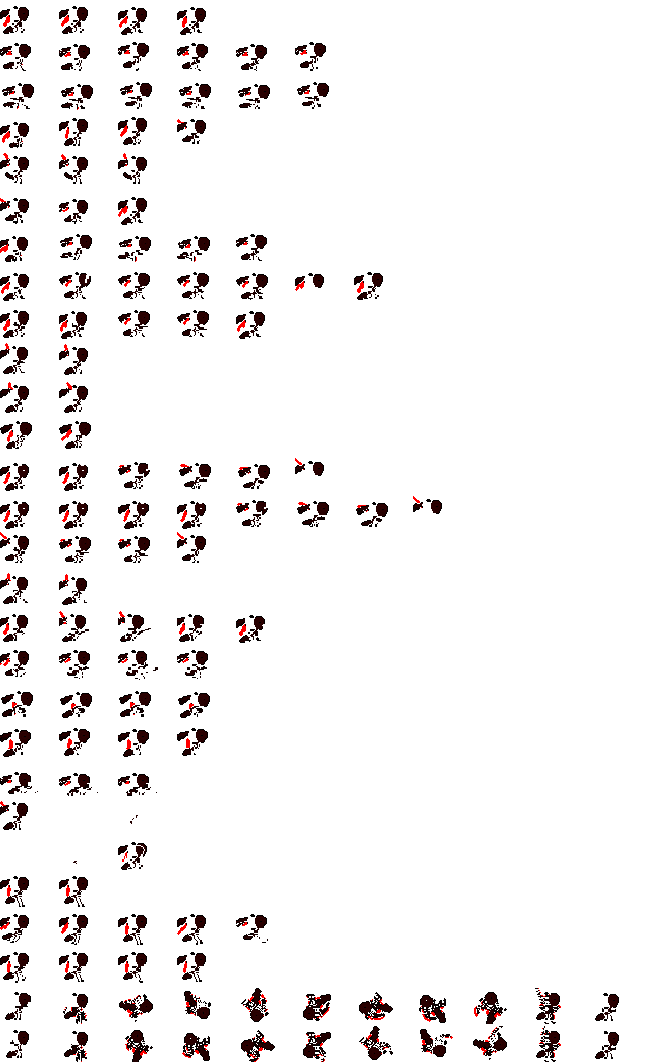
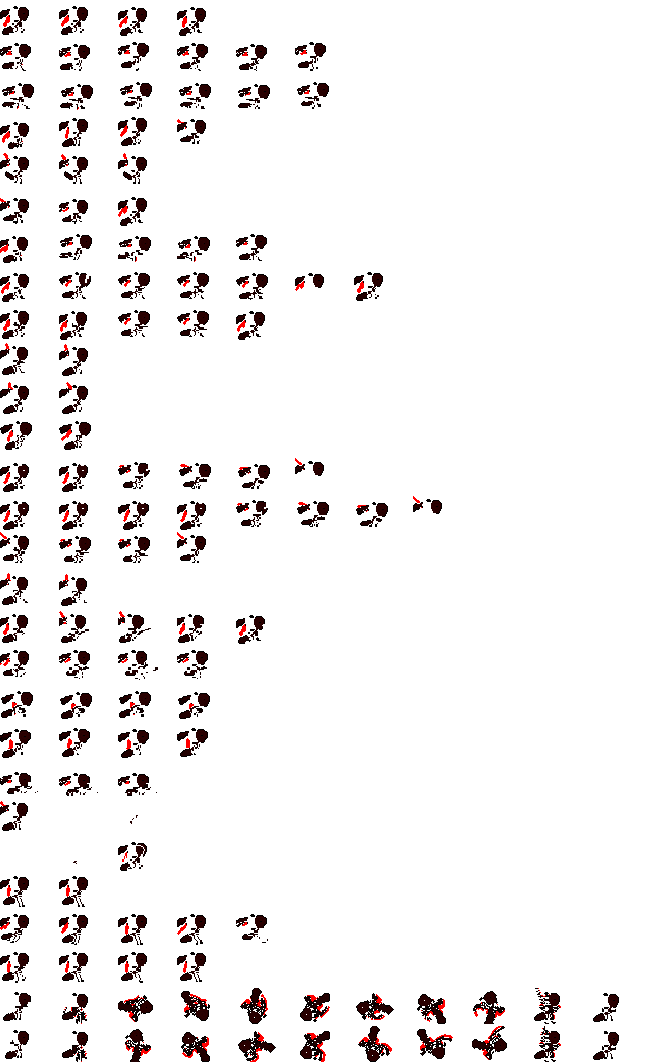
Apprenti tengu : le pan du manteau retrouve sa forme, son bout raccourci
Ce n'est pas une queue mais le long pan du manteau qui fait cape (Raph) : la
forme validée est rétablie dans ses trois gabarits, seul son bout est
raccourci (un pixel de long, et au repos la dernière rangée qui touchait le
sol). Commentaires, carte mentale et SKINS.md parlent désormais du pan du
manteau.

Claude-Session: https://claude.ai/code/session_01A2iwx41GJ1yT1ZEu9VhwRg

diff --git a/docs/carte-mentale/index.html b/docs/carte-mentale/index.html
@@ -270,7 +270,7 @@ const BRANCHES = [
     keys: ['2 dégâts, recul 170 px/s', '0,35 s avant d\'en relancer un', 'Portée équivalente au sabre'],
     files: ['src/game/fall.js', 'tools/kage_forge/rig.py'], see: ['ennemi-chute'] },
   { id: 'kage-skins', t: 'Skins de KAGE', s: 'encours', d: 'Encre, le paysan, l’apprenti tengu, le Samouraï déchu, le pêcheur, Lumière d’or ; cinq autres à reprendre un par un',
-    txt: "Un skin = une palette par slots (même animation, même boîte de collision, rien ne change dans le jeu) et des accessoires, posés pose par pose : sur la tête (grand sugegasa tressé, dessiné à la main), dans le dos (le mino de feuilles et de paille du voyageur, qui suit le bord du dos, s'évase jusqu'aux chevilles et s'effiloche ; le tonnelet doré, le panier, le bambou et le manche d'outil du paysan), sur le corps (cordon doré en pointillés et boucle de ceinture, pan de tunique, pantalon rapiécé, kimono semé de feuilles). Les pans du bandeau sont rangés (le voyageur garde un ruban qui flotte). Chaque skin a sa planche d'animation complète (la forge exporte ses accessoires sur un calque d'index, kage_acc_<skin>_index.png, fondu par le jeu sur la planche recolorée). Planches de Raph (14 novembre 2026) : après un premier essai trop rapide des dix skins entourés, on reprend un par un ; faits : le voyageur (100 ryō, retiré du jeu le 16 novembre 2026 à la demande de Raph : sa planche reste dans docs/kage/skins/) et le paysan des rizières (100 ryō) ; le vagabond (50 ryō) est retiré du jeu (14 novembre 2026) ; Lumière d'or (légendaire, 600 ryō, 15 novembre 2026) : ninja bleu nuit, bandeau d'or et ses pans en flammes, étoffe dorée sur l'épaule, cordon et pans d'or à la ceinture, grande auréole à croix de lumière (sans contour) ; sabre à lame d'or et poignée de cuir, arc du coup d'or, shurikens dorés (projectileColors) ; en jeu (src/game/aura.js), un orbe doré qui flotte devant lui, deux volutes de lumière autour des jambes, des étincelles ; une légère traînée d'or derrière le coup d'épée (les images précédentes de la lame) des silhouettes dorées derrière le dash , trois reflets et un peu de poussière d'or étincelante derrière chaque shuriken (champ trail, Shurikens.dust, maskSheet dans sprites.js) ; le Samouraï déchu (rare, 450 ryō, 16 novembre 2026) : kabuto laqué à la bombe haute, cornes d'or en croissant et cimier rouge, bande rouge et ses deux pans au vent ; épaulière laquée bordée d'or, au haut carré, resserrée sur l'épaule (elle ne dépasse plus que d'un pixel : Raph la confondait avec la cape) ; cape rouge en lambeaux, dessinée à la main pour chaque vent (lu sur les pans du bandeau de la pose) : au repos plaquée dans le dos des épaules aux genoux, trois pixels au plus derrière l'épaule, angles nets, une entaille sur le côté, le bas en pointes ; en course elle vole haut derrière les épaules ; en chute elle se soulève ; col d'or en V, ceinture à plaques d'or ; tassette avant bordée d'or en U, tassette arrière clouée d'or ; hakama sombre jusqu'à la jambe levée d'un coup de pied, chaussures à bande rouille ; le bras arrière rapproché du corps d'un pixel (demandes de Raph) ; sa barre de vie passe au-dessus des cornes (champ barLift). Le même jour : un calque d'accessoires sait effacer (marque ERASE, index 255 : les pans rangés, le bras déplacé) ; jusque-là, ce qu'un accessoire retirait restait visible en jeu (les pans du voyageur, du paysan et de Lumière d'or) ; et en arène, le ninja porte enfin le skin de l'aventure en cours. Le pêcheur (épique, 500 ryō, 16 novembre 2026) : sugegasa à bande de tressage gris-bleu, pan bleu sous le bord, tenue bleu nuit semée d'éclats dorés, corde tressée claire en bandoulière, une canne fine rangée dans le dos, qui dépasse au-dessus du chapeau, un petit fil pendu à sa pointe (elle quitte le dos quand il la prend pour frapper), un filet rond sur le dos tenu à la hanche, qui lévite avec la vitesse (un peu en course ; en sprint et en dash il monte, part en arrière, penche et laisse trois traits de vitesse ; plus petit pendant les saltos), une canne à pêche en bambou à la place du sabre (nœuds, poignée de liège, scion, ligne et flotteur rouge et blanc ; l'arc du coup devient une ligne d'eau), des micro-poissons en guise de shurikens (agrandis ×1,4 le 17 novembre 2026 ; planche kage_fish, cases de 16 px, tournés dans le sens du vol, plantés la tête la première, des micro-gouttelettes d'eau derrière eux ; un petit poisson dans la main au lancer), toiles de paille aux chevilles, marque dorée sur le masque. Les pans du bandeau qui remontent derrière la tête (chute, glissade murale) sont désormais rangés aussi (ribbon : paysan, Lumière d'or). L'apprenti tengu (n° 13, peu commun, 350 ryō, 17 novembre 2026) : masque blanc lisse à œil unique, une spirale rouge d'un pixel qui part de l'œil, s'enroule vers l'extérieur et finit dans le bord bas du masque (choisi par Raph le 17 novembre 2026 parmi six idées, docs/kage/skins/tengu_masques.png, après l'abandon du masque de renard), mèche nouée, rubans blanc et rouge effilés au vent, boucle dorée à la ceinture, veste blanche à la poitrine rouge, cordelette en damier, pantalon blanc à bande rouge, tibias sombres, queue de renard rouge à pointe blanche, raccourcie pour ne plus traîner, qui suit le vent. Les cinq autres (ninja blanc, écarlate, Ombre pourpre, Souffle de l'hiver, Renard blanc) attendent en brouillon (tools/kage_forge/skins_brouillon/), hors du jeu. Nouveaux slots : gear (b B i) et gear2 (j J).",
+    txt: "Un skin = une palette par slots (même animation, même boîte de collision, rien ne change dans le jeu) et des accessoires, posés pose par pose : sur la tête (grand sugegasa tressé, dessiné à la main), dans le dos (le mino de feuilles et de paille du voyageur, qui suit le bord du dos, s'évase jusqu'aux chevilles et s'effiloche ; le tonnelet doré, le panier, le bambou et le manche d'outil du paysan), sur le corps (cordon doré en pointillés et boucle de ceinture, pan de tunique, pantalon rapiécé, kimono semé de feuilles). Les pans du bandeau sont rangés (le voyageur garde un ruban qui flotte). Chaque skin a sa planche d'animation complète (la forge exporte ses accessoires sur un calque d'index, kage_acc_<skin>_index.png, fondu par le jeu sur la planche recolorée). Planches de Raph (14 novembre 2026) : après un premier essai trop rapide des dix skins entourés, on reprend un par un ; faits : le voyageur (100 ryō, retiré du jeu le 16 novembre 2026 à la demande de Raph : sa planche reste dans docs/kage/skins/) et le paysan des rizières (100 ryō) ; le vagabond (50 ryō) est retiré du jeu (14 novembre 2026) ; Lumière d'or (légendaire, 600 ryō, 15 novembre 2026) : ninja bleu nuit, bandeau d'or et ses pans en flammes, étoffe dorée sur l'épaule, cordon et pans d'or à la ceinture, grande auréole à croix de lumière (sans contour) ; sabre à lame d'or et poignée de cuir, arc du coup d'or, shurikens dorés (projectileColors) ; en jeu (src/game/aura.js), un orbe doré qui flotte devant lui, deux volutes de lumière autour des jambes, des étincelles ; une légère traînée d'or derrière le coup d'épée (les images précédentes de la lame) des silhouettes dorées derrière le dash , trois reflets et un peu de poussière d'or étincelante derrière chaque shuriken (champ trail, Shurikens.dust, maskSheet dans sprites.js) ; le Samouraï déchu (rare, 450 ryō, 16 novembre 2026) : kabuto laqué à la bombe haute, cornes d'or en croissant et cimier rouge, bande rouge et ses deux pans au vent ; épaulière laquée bordée d'or, au haut carré, resserrée sur l'épaule (elle ne dépasse plus que d'un pixel : Raph la confondait avec la cape) ; cape rouge en lambeaux, dessinée à la main pour chaque vent (lu sur les pans du bandeau de la pose) : au repos plaquée dans le dos des épaules aux genoux, trois pixels au plus derrière l'épaule, angles nets, une entaille sur le côté, le bas en pointes ; en course elle vole haut derrière les épaules ; en chute elle se soulève ; col d'or en V, ceinture à plaques d'or ; tassette avant bordée d'or en U, tassette arrière clouée d'or ; hakama sombre jusqu'à la jambe levée d'un coup de pied, chaussures à bande rouille ; le bras arrière rapproché du corps d'un pixel (demandes de Raph) ; sa barre de vie passe au-dessus des cornes (champ barLift). Le même jour : un calque d'accessoires sait effacer (marque ERASE, index 255 : les pans rangés, le bras déplacé) ; jusque-là, ce qu'un accessoire retirait restait visible en jeu (les pans du voyageur, du paysan et de Lumière d'or) ; et en arène, le ninja porte enfin le skin de l'aventure en cours. Le pêcheur (épique, 500 ryō, 16 novembre 2026) : sugegasa à bande de tressage gris-bleu, pan bleu sous le bord, tenue bleu nuit semée d'éclats dorés, corde tressée claire en bandoulière, une canne fine rangée dans le dos, qui dépasse au-dessus du chapeau, un petit fil pendu à sa pointe (elle quitte le dos quand il la prend pour frapper), un filet rond sur le dos tenu à la hanche, qui lévite avec la vitesse (un peu en course ; en sprint et en dash il monte, part en arrière, penche et laisse trois traits de vitesse ; plus petit pendant les saltos), une canne à pêche en bambou à la place du sabre (nœuds, poignée de liège, scion, ligne et flotteur rouge et blanc ; l'arc du coup devient une ligne d'eau), des micro-poissons en guise de shurikens (agrandis ×1,4 le 17 novembre 2026 ; planche kage_fish, cases de 16 px, tournés dans le sens du vol, plantés la tête la première, des micro-gouttelettes d'eau derrière eux ; un petit poisson dans la main au lancer), toiles de paille aux chevilles, marque dorée sur le masque. Les pans du bandeau qui remontent derrière la tête (chute, glissade murale) sont désormais rangés aussi (ribbon : paysan, Lumière d'or). L'apprenti tengu (n° 13, peu commun, 350 ryō, 17 novembre 2026) : masque blanc lisse à œil unique, une spirale rouge d'un pixel qui part de l'œil, s'enroule vers l'extérieur et finit dans le bord bas du masque (choisi par Raph le 17 novembre 2026 parmi six idées, docs/kage/skins/tengu_masques.png, après l'abandon du masque de renard), mèche nouée, rubans blanc et rouge effilés au vent, boucle dorée à la ceinture, veste blanche à la poitrine rouge, cordelette en damier, pantalon blanc à bande rouge, tibias sombres, long pan du manteau rouge bordé de blanc, qui fait cape et suit le vent, son bout raccourci d'un pixel pour ne plus traîner. Les cinq autres (ninja blanc, écarlate, Ombre pourpre, Souffle de l'hiver, Renard blanc) attendent en brouillon (tools/kage_forge/skins_brouillon/), hors du jeu. Nouveaux slots : gear (b B i) et gear2 (j J).",
     keys: ['6 skins en jeu', '5 en brouillon', 'gear b B i · gear2 j J', 'effacer : index 255'],
     files: ['assets/characters/kage/skins/', 'src/engine/sprites.js', 'tools/kage_forge/accessories.py', 'tools/kage_forge/palette.py', 'tools/kage_forge/skin_design.py', 'tools/kage_forge/skin_sheets.py', 'tools/kage_forge/skins_brouillon/', 'src/game/shop.js', 'src/game/aura.js', 'docs/SKINS.md'],
     links: [['Le paysan, face à son modèle', 'docs/kage/skins/paysan_planche.png'], ['Lumière d’or, face à son modèle', 'docs/kage/skins/or_planche.png'], ['Le Samouraï déchu, face à son modèle', 'docs/kage/skins/samourai_planche.png'], ['Le pêcheur, face à son modèle', 'docs/kage/skins/pecheur_planche.png'], ['L’apprenti tengu, face à son modèle', 'docs/kage/skins/tengu_planche.png'], ['L’apprenti tengu : les six idées de masques', 'docs/kage/skins/tengu_masques.png'], ['Le pêcheur, toutes les animations', 'docs/kage/skins/planche_pecheur.png'], ['Le Samouraï déchu, toutes les animations', 'docs/kage/skins/planche_samourai.png']], see: ['sys-boutique', 'hab-marchand'] },

diff --git a/tools/kage_forge/accessories.py b/tools/kage_forge/accessories.py
@@ -1333,10 +1333,10 @@ def mask_mark(g):
 # l'œil, s'enroule vers l'extérieur et finit dans le bord bas du masque (choix de Raph, après l'abandon du masque de renard : on n'y devinait pas
 # assez le renard à notre échelle de pixels) ; capuche sombre derrière et sa petite mèche nouée, deux rubans
 # (blanc bordé de rouge, et rouge) qui flottent derrière la tête ; veste blanche au devant rouge, cordelette en
-# damier ; pantalon blanc à bande rouge ; une queue de renard rouge à pointe blanche, qui suit le vent de la
-# pose (comme la cape du samouraï).
+# damier ; pantalon blanc à bande rouge ; le long pan du manteau, rouge bordé de blanc, qui fait cape et suit
+# le vent de la pose (comme la cape du samouraï).
 # Lettres : B b i blanc du masque · J la spirale rouge · O l'œil · f F G rouges (rubans, devant, pantalon)
-# r p P Q queue (sombre, ombre, rouge, blanc)
+# r p P Q pan du manteau (sombre, ombre, rouge, blanc)
 # ---------------------------------------------------------------------------
 FOX_MASK = """
 ..bBBBi..
@@ -1461,30 +1461,33 @@ def haori(g):
     return g, True
 
 
-# la queue de renard, dessinée à la main pour chaque vent (calée à droite contre le bas du dos, première
-# rangée relative à la ceinture) : elle pend et balaie le sol au repos, file derrière lui en course, se soulève
-# en chute
+# le long pan du manteau, rouge bordé de blanc, qui fait cape derrière lui (on l'appelait d'abord « queue
+# de renard ») : dessiné à la main pour chaque vent (calé à droite contre le bas du dos, première rangée
+# relative à la ceinture) ; il pend au repos, file derrière lui en course, se soulève en chute
 FOX_TAIL = {
-    # (raccourcie le 17 novembre 2026, demande de Raph : elle traînait trop)
+    # (la forme validée, son bout raccourci d'un pixel et sa dernière rangée retirée le 17 novembre 2026 :
+    # il traînait un peu trop, Raph)
     "calm": (0, [
-        "....pPP.",
-        "..pPPPPP",
-        ".pPpPPPQ",
-        "QpPPPQQ.",
-        "QiQQ....",
+        ".....pPP.",
+        "...pPPPPP",
+        ".pPPpPPPQ",
+        "pPPpPPPQQ",
+        "QPPPPQQQ.",
+        "QQiQQ....",
     ]),
     "back": (-1, [
-        "....pPPP",
-        "..pPpPPP",
-        "QpPPPPPQ",
-        "QiQQQQ..",
+        ".....pPPP",
+        ".ppPPpPPP",
+        "QPPPPPPPQ",
+        "QiQQQQQ..",
     ]),
-    "up": (-3, [
-        "QQ......",
-        "QiPp....",
-        ".QPPPp..",
+    "up": (-4, [
+        "Q.......",
+        "iPp.....",
+        "QPPPp...",
+        ".pPPPPp.",
         "...QPPPP",
-        ".....QQP",
+        "....QQQP",
     ]),
 }
 

diff --git a/docs/SKINS.md b/docs/SKINS.md
@@ -14,7 +14,7 @@ Tout ce qu'il faut savoir pour **créer un skin** du ninja de *The Ninja Adventu
 |---|---|---|---|---|---|
 | `encre` | Encre | origine | — | — | le skin d'origine, toujours possédé |
 | `paysan` | Paysan des rizières | commun | 100 | `notails`, `pants`, `dots`, `farmer`, `sash`, `kasa` | kimono vert, tonnelet et panier sur le dos, bambou |
-| `tengu` | L'apprenti tengu | peu commun | 350 | `fox_tail`, `haori`, `rope`, `fox_mask` | masque blanc à œil unique et spirale rouge qui finit dans le bord du masque, mèche nouée, rubans blanc et rouge au vent ; veste blanche au devant rouge, cordelette en damier, pantalon blanc à bande rouge, boucle dorée ; queue de renard rouge à pointe blanche, courte, qui suit le vent |
+| `tengu` | L'apprenti tengu | peu commun | 350 | `fox_tail`, `haori`, `rope`, `fox_mask` | masque blanc à œil unique et spirale rouge qui finit dans le bord du masque, mèche nouée, rubans blanc et rouge au vent ; veste blanche au devant rouge, cordelette en damier, pantalon blanc à bande rouge, boucle dorée ; long pan du manteau rouge bordé de blanc, qui fait cape et suit le vent (`fox_tail`), son bout raccourci pour ne plus traîner |
 | `samourai` | Samouraï déchu | rare | 450 | `arm_in`, `hakama`, `kusazuri`, `rag`, `sode`, `samurai_trim`, `kabuto` | kabuto aux cornes d'or en croissant et cimier rouge, pans au vent, épaulière carrée resserrée sur l'épaule, cape en lambeaux (plaquée au repos, au vent en course), tassettes bordées d'or ; bras arrière rapproché du corps ; `barLift: 4` (barre de vie au-dessus des cornes) |
 | `pecheur` | Le pêcheur | épique | 500 | `round_net`, `ribbon`, `rope`, `specks`, `wraps`, `mask_mark`, `rod`, `back_rod`, `kasa_peche` | sugegasa tressé de bleu, pan bleu, une canne fine rangée dans le dos (un fil pend de sa pointe ; elle quitte le dos quand il frappe), filet rond sur le dos qui lévite avec la vitesse (course, sprint), corde tressée, éclats dorés ; **canne à pêche** en bambou à la place du sabre (ligne et flotteur, arc du coup en ligne d'eau) ; **micro-poissons** en guise de shurikens (`projectile: "fish"`, gouttes d'eau : `projectileDust: "water"`) |
 | `or` | Lumière d'or | légendaire | 600 | `flametails`, `halo`, `hipcloth`, `mantlet`, `sash`, `apron` | `aura: 'gold'` (éclat : `src/game/aura.js`), shurikens dorés (`projectileColors`), traînées d'or (`trail`), poussière d'or derrière les shurikens (`goldDust`, `src/game/shuriken.js`) |
